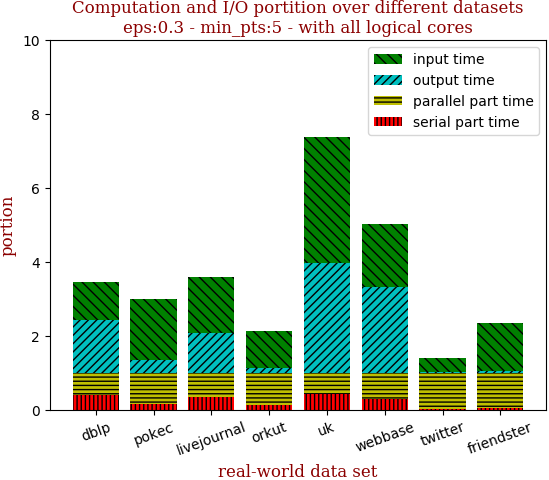
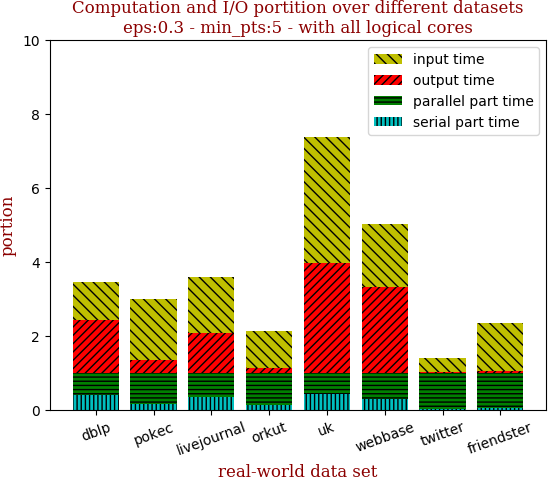
update exp figure drwing

Changed region(s): [[0.1239, 0.2812, 0.9599, 0.875], [0.6812, 0.0938, 0.7432, 0.2812]]

diff --git a/python_experiments/workload_figure.py b/python_experiments/workload_figure.py
@@ -153,7 +153,7 @@ def display_runtime(eps_lst, display_lst, title_append_txt=''):
     plt.show()
 
 
-if __name__ == '__main__':
+def case_study0():
     # case study 0
     data_set_lst = ['small_snap_dblp',
                     'snap_pokec', 'snap_livejournal', 'snap_orkut',
@@ -164,9 +164,15 @@ if __name__ == '__main__':
     min_pts = 5
     root_dir_path = '/mnt/mount-gpu/d2/yche/projects/python_experiments/worklaod'
     case_study_fix_eps_min_pts(data_set_lst, eps, min_pts, root_dir_path)
-
-    # case study 1
     print
+
+
+def case_study1():
+    # case study 1
+    eps = 0.3
+    min_pts = 5
+    root_dir_path = '/mnt/mount-gpu/d2/yche/projects/python_experiments/worklaod'
+
     data_set_lst = ['small_snap_dblp',
                     'snap_pokec', 'snap_livejournal', 'snap_orkut',
                     'webgraph_uk', 'webgraph_webbase',
@@ -179,3 +185,8 @@ if __name__ == '__main__':
         append_txt = ' - '.join([data_set, 'min_pts:' + str(min_pts)])
         display_workload_runtime(parameter_eps_lst, display_lst, title_append_txt=append_txt)
         display_runtime(parameter_eps_lst, display_lst, title_append_txt=append_txt)
+
+
+if __name__ == '__main__':
+    case_study0()
+    case_study1()

diff --git a/python_experiments/scalability_figure_overview.py b/python_experiments/scalability_figure_overview.py
@@ -97,7 +97,7 @@ def display_comp_io_portion(portion_lst_lst, data_set_name_lst, title_append_txt
     # init parameters
     filtered_lst = recal_for_bar_char([portion_lst_lst[3], portion_lst_lst[4], portion_lst_lst[1], portion_lst_lst[2]])
 
-    shape_color_lst = ['g', 'c', 'y', 'r']
+    shape_color_lst = ['y', 'r', 'g', 'c']
     hatch_lst = ['\\\\\\', '////', '----', '||||']
 
     font = {'family': 'serif', 'color': 'darkred', 'weight': 'normal', 'size': 12, }
@@ -107,12 +107,10 @@ def display_comp_io_portion(portion_lst_lst, data_set_name_lst, title_append_txt
 
     cur_shape_color_idx = 0
     for portion_lst in filtered_lst:
-        # partially bind parameters
         plt.bar(range(1, len(data_set_name_lst) + 1), portion_lst, color=shape_color_lst[cur_shape_color_idx],
                 hatch=hatch_lst[cur_shape_color_idx])
         cur_shape_color_idx += 1
 
-    # draw speedup
     plt.xlabel('real-world data set', fontdict=font)
     plt.ylim([0.0, 10.0])
     plt.xticks(range(1, len(data_set_name_lst) + 1), data_set_name_lst, rotation=20)
